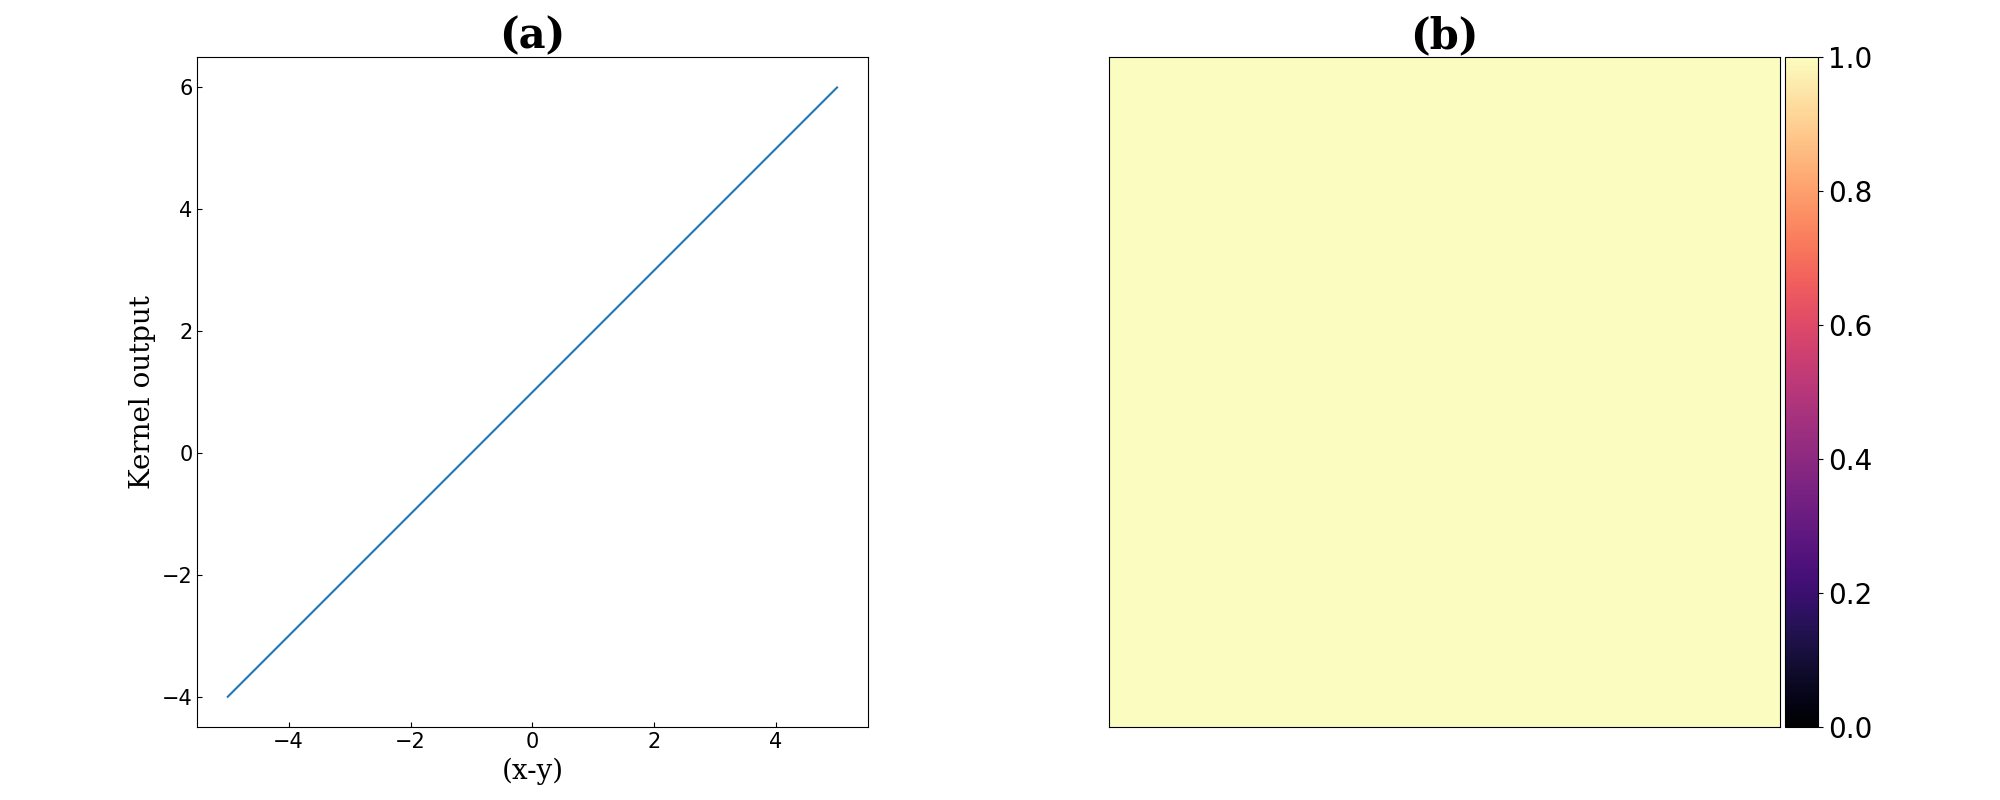
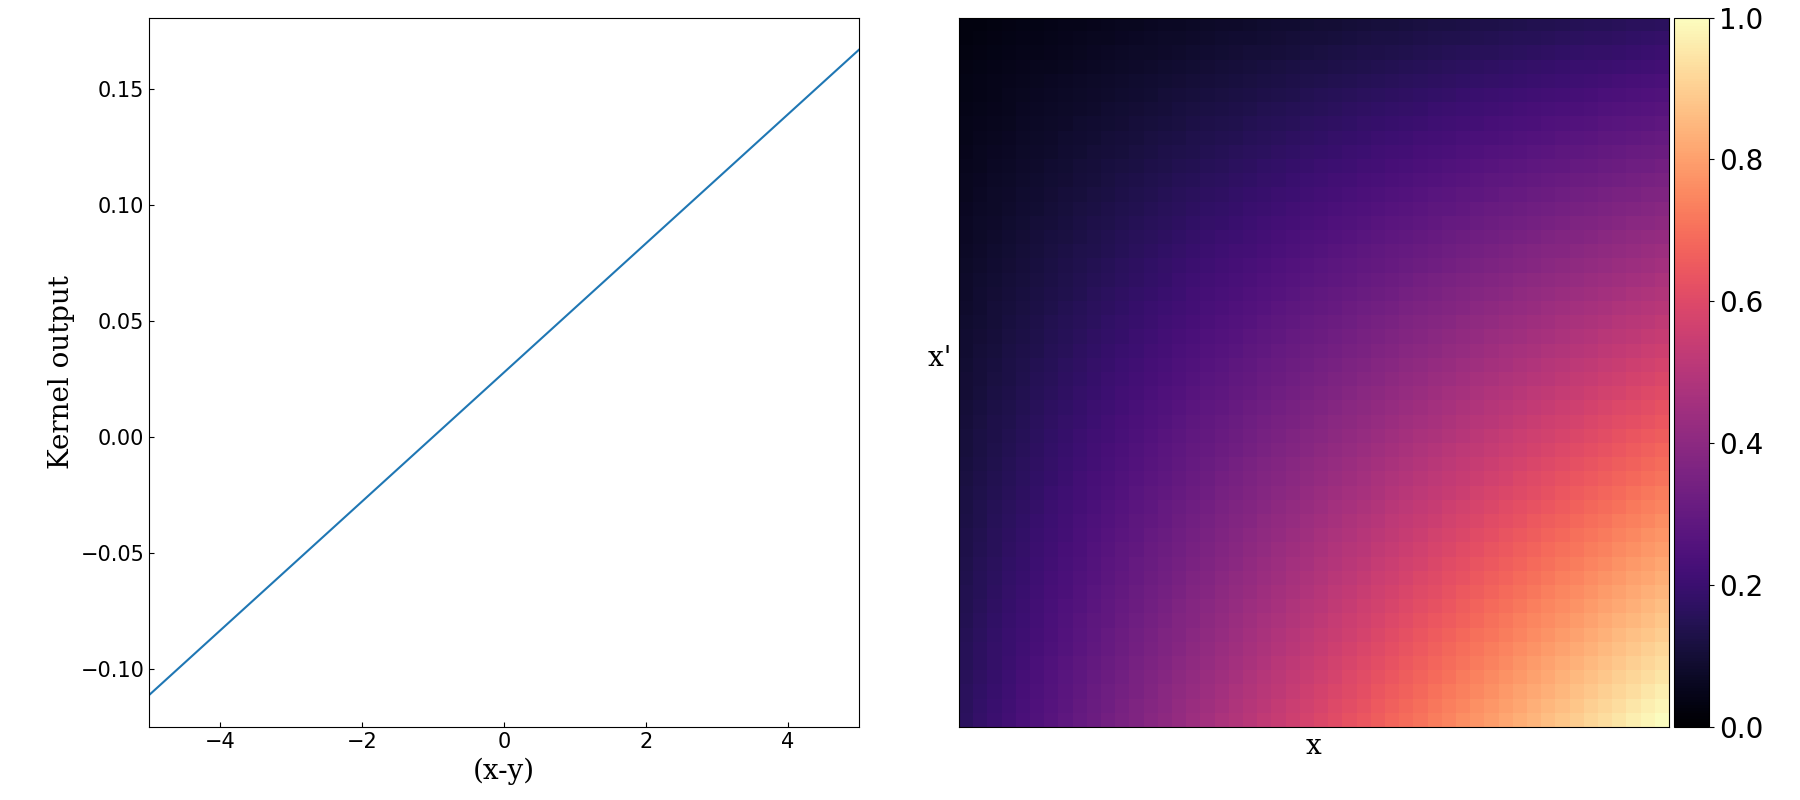
more consistent figures

diff --git a/src/visualisation.py b/src/visualisation.py
@@ -10,9 +10,10 @@ alphabet = "abcdefghi"
 def visualiseKernel(kernel:KernelFunction):
     """This function visualises the kernel."""
     matrixOfValues = kernel(np.linspace(0,5, 50))
-    values = kernel(np.array([0]), np.linspace(-5,5,1000))
+    x = np.linspace(-5,5,1000)
+    values = kernel(np.array([0]), x)
 
-    fig, axes = plt.subplots(1,2, width_ratios=[1,1], height_ratios=[1], figsize = (20,8))
+    fig, axes = plt.subplots(1,2, width_ratios=[1,1], height_ratios=[1], figsize = (18,8))
 
     # first axis is graph of values
     axes[0].plot(np.linspace(-5,5,1000), values)
@@ -24,12 +25,15 @@ def visualiseKernel(kernel:KernelFunction):
     im = axes[1].imshow(matrixOfValues, cmap = "magma", vmin = 0, vmax = 1)
     axes[1].set_xticks([])
     axes[1].set_yticks([])
+    axes[1].set_xlabel("x", fontsize = 20, fontfamily = "serif")
+    axes[1].set_ylabel("x'   ", fontsize = 20, fontfamily = "serif", rotation=0)
     divider = make_axes_locatable(axes[1])
     cax = divider.append_axes('right', size='5%', pad=0.05)
     cbar = fig.colorbar(im, cax=cax, orientation='vertical')
     cbar.ax.tick_params(labelsize=20) 
     for index, axis in enumerate(axes):
         fixTickParams(axis, index)
+    axes[0].set_xlim(np.min(x),np.max(x))
 
     fig.tight_layout()
     fig.savefig(f"figures/{kernel.kernType.replace(" ", "")}.png")
@@ -44,12 +48,12 @@ def showAll():
     comp = CompositeKernel(p, RadialBasisFunction(lengthscale=5), "x")
     comp.kernType = "Locally Periodic"
     kernels = [rbf, rq, p, comp]
-
-    fig, axes = plt.subplots(2, len(kernels), figsize = (20,8))
+    x = np.linspace(-5,5,100)
+    fig, axes = plt.subplots(2, len(kernels), figsize = (18,8))
     for i, kernel in enumerate(kernels):
         matrixOfValues = kernel(np.linspace(0,5, 50))
-        values = kernel(np.array([0]), np.linspace(-5,5,100))
-        axes[0][i].plot(np.linspace(-5,5,100), values)
+        values = kernel(np.array([0]), x)
+        axes[0][i].plot(x, values)
         axes[0][i].set_box_aspect(1)
         # axes[0][i].set_xlabel("(x - y)", fontsize = 12, fontfamily = "serif")
 
@@ -65,6 +69,8 @@ def showAll():
 
     for i in range(1,len(kernels)):
         axes[0][i].set_yticks([])
+        axes[0][i].set_xlim(np.min(x),np.max(x))
+
     axes[0][0].set_ylabel("Kernel output", fontsize = 12, fontfamily = "serif")
 
     for index, axis in enumerate(axes.flatten()):
@@ -76,18 +82,18 @@ def showAll():
 def testHypes():
     
     kernels = [RadialBasisFunction(1,1), RadialBasisFunction(1,2), RadialBasisFunction(0.75,1), RadialBasisFunction(0.75,2)]
-
-    fig, axes = plt.subplots(2, len(kernels), figsize = (20,8))
+    x = np.linspace(-5,5,100)
+    fig, axes = plt.subplots(2, len(kernels), figsize = (18,8))
     for i, kernel in enumerate(kernels):
         matrixOfValues = kernel(np.linspace(0,5, 50))
-        values = kernel(np.array([0]), np.linspace(-5,5,100))
-        axes[0][i].plot(np.linspace(-5,5,100), values)
+        values = kernel(np.array([0]), x)
+        axes[0][i].plot(x, values)
         axes[0][i].set_box_aspect(1)
         axes[0][i].set_xlabel("(x - y)", fontsize = 12, fontfamily = "serif")
         axes[0][i].set_ylim([0,1.1])
         
         # second axis is visual pattern
-        im = axes[1][i].imshow(matrixOfValues, vmin = 0, vmax = 1)
+        im = axes[1][i].imshow(matrixOfValues, vmin = 0, vmax = 1, cmap = "magma")
         axes[1][i].set_xticks([])
         axes[1][i].set_yticks([])
         divider = make_axes_locatable(axes[1][i])
@@ -97,13 +103,15 @@ def testHypes():
 
     for i in range(1,len(kernels)):
         axes[0][i].set_yticks([])
+        axes[0][i].set_xlim(np.min(x),np.max(x))
+
     axes[0][0].set_ylabel("Kernel output", fontsize = 12, fontfamily = "serif")
     for index, axis in enumerate(axes.flatten()):
         fixTickParams(axis, index)
     fig.savefig("figures/hyperparams.png")   
 
 def showGPLengthscales():
-    fig, axes = plt.subplots(1,3, figsize = (20,8))
+    fig, axes = plt.subplots(1,3, figsize = (18,8))
     x = np.linspace(0,20,250)
     y = generateSinData(x, 5, 0.1)
     gps = [GaussianProcess(RadialBasisFunction(lengthscale=0.1)), GaussianProcess(RadialBasisFunction(lengthscale=1)), GaussianProcess(RadialBasisFunction(lengthscale=10))]
@@ -117,24 +125,25 @@ def showGPLengthscales():
         axes[i].set_yticks([])
     for index, axis in enumerate(axes):
         fixTickParams(axis, index)
+        axis.set_xlim(np.min(x),np.max(x))
     fig.tight_layout()
     fig.savefig("figures/lengthscales.png")
 
 
-def priorDistSample(gp: GaussianProcess, nsamples: int = 3):
+def priorDistSample(gp: GaussianProcess, nsamples: int = 3, fname="figures/priorVsPosterior.png"):
     """This function plots and samples functions from the means and covariance.
     Args:
         gp: the gaussian process having observed data.
     """
 
-    fig, axes = plt.subplots(ncols=2, figsize = (20,10), sharey=True)
-    
+    fig, axes = plt.subplots(ncols=2, figsize = (18,6.3), sharey=True)
+    gp.observeData(np.array([2,3, 7, 5]), np.array([0.5,0.5,2,1]))
+
     # calculate the mean and covariance for prior.
-    sigma = gp.noise_variance
     
     kernel = gp.kernelFunction
-    x = np.linspace(0,100,100)
-    means = np.zeros(100)
+    x = np.linspace(0,10,200)
+    means = np.zeros(200)
     kernelMatrix = kernel(x)
     axes[0].plot(x,means)
     axes[0].fill_between(x, means-kernelMatrix.diagonal(), means+kernelMatrix.diagonal(), alpha = 0.1)
@@ -142,46 +151,103 @@ def priorDistSample(gp: GaussianProcess, nsamples: int = 3):
     axes[1].plot(x,postMeans, label="Mean function")
     axes[1].fill_between(x, postMeans-PostVariance.diagonal(), postMeans+PostVariance.diagonal(), alpha = 0.1, label="Variance range")
     axes[1].scatter(gp.x, gp.y, marker = "x", c="black", s=40, label="Observed data")
-    f = np.random.multivariate_normal(means, kernelMatrix)
-    axes[0].plot(x, f, linestyle = "dashed", color = "black", linewidth = 1, label="Sample")
-    f = np.random.multivariate_normal(postMeans, PostVariance)
-    axes[1].plot(x, f, linestyle = "dashed", color = "black", linewidth = 1)
-
-    for i in range(nsamples-1):
+    for i in range(nsamples):
         f = np.random.multivariate_normal(means, kernelMatrix)
-        axes[0].plot(x, f, linestyle = "dashed", color = "black", linewidth = 1)
+        axes[0].plot(x, f, linestyle = "dashed", linewidth = 1)
         f = np.random.multivariate_normal(postMeans, PostVariance)
-        axes[1].plot(x, f, linestyle = "dashed", color = "black", linewidth = 1)
+        axes[1].plot(x, f, linestyle = "dashed", linewidth = 1)
 
     # fig.legend(loc="center right")
     for index, axis in enumerate(axes):
         fixTickParams(axis, index)
-    fig.savefig("figures/priorVsPosterior.png")
+        axis.set_yticks([-2,0,2])
+        axis.set_ylim(-3.5,3.5)
+        axis.set_xlim(np.min(x),np.max(x))
+        axis.set_xticks([])
 
+    fig.tight_layout()
+
+    fig.savefig(fname)
+
+
+def GPComps(gps: list[GaussianProcess], fname:str, nsamples = 3):
+    """Generates prior and posterior distribution according to multiple GPs."""
+    observedX = [2,3,7, 5]
+    observedY = [0.5,0.5,2,1]
+    fig1, axes1 = plt.subplots(ncols=len(gps), figsize = (18,18/(len(gps)+1)), sharey=True)
+    fig2, axes2 = plt.subplots(ncols=len(gps), figsize = (18,18/(len(gps)+1)), sharey=True)
+    for index, gp in enumerate(gps):
+        gp.observeData(observedX, observedY)
+        kernel = gp.kernelFunction
+        x = np.linspace(0,10,1000)
+        means = np.zeros(1000)
+        kernelMatrix = kernel(x)
+        postMeans,PostVariance = gp.inference(x)
+        axes1[index].plot(x,means)
+        axes1[index].fill_between(x, means-kernelMatrix.diagonal(), means+kernelMatrix.diagonal(), alpha = 0.1)
+        axes2[index].plot(x,postMeans, label="Mean function")
+        axes2[index].fill_between(x, postMeans-PostVariance.diagonal(), postMeans+PostVariance.diagonal(), alpha = 0.1, label="Variance range")
+        axes2[index].scatter(gp.x, gp.y, marker = "x", c="black", s=40, label="Observed data")
+        for i in range(nsamples):
+            f = np.random.multivariate_normal(means, kernelMatrix)
+            axes1[index].plot(x, f, linestyle = "dashed", linewidth = 1)
+            f = np.random.multivariate_normal(postMeans, PostVariance)
+            axes2[index].plot(x, f, linestyle = "dashed", linewidth = 1)
+    
+    for axis in axes1:
+        axis.tick_params(direction = "in", labelsize=15)
+        axis.set_ylim(-3.5,3.5)
+        axis.set_yticks([-2,0,2])
+        axis.set_xticks([])
+        axis.set_xlim(np.min(x),np.max(x))
+
+
+    for axis in axes2:
+        axis.tick_params(direction = "in", labelsize=15)
+        axis.set_ylim(-3.5,3.5)
+        axis.set_yticks([-2,0,2])
+        axis.set_xticks([])
+        axis.set_xlim(np.min(x),np.max(x))
+    fig1.tight_layout()
+    fig2.tight_layout()
+
+    fig1.savefig(f"figures/{fname}Priors.png")
+    fig2.savefig(f"figures/{fname}Posteriors.png")
 
     
 def fixTickParams(axis, index):
     """This function fixes axis for consistency."""
     axis.tick_params(direction = "in", labelsize=15)
-    axis.set_title(f"({alphabet[index]})", size = 30, fontfamily = "serif", fontweight = "bold")
+    # axis.set_title(f"({alphabet[index]})", size = 30, fontfamily = "serif", fontweight = "bold")
 
     
 
 
 if __name__ == "__main__":
-    rbf = RadialBasisFunction(lengthscale=1)
-    rq = RationalQuadraticFunction(alpha=1)
-    p = PeriodicFunction()
-    lin = LinearFunction()
-    comp = CompositeKernel(p, RadialBasisFunction(lengthscale=4), "x")
-    visualiseKernel(rbf)
-    visualiseKernel(rq)
-    visualiseKernel(p)
-    visualiseKernel(lin)
-    visualiseKernel(comp)
-    showAll()
-    testHypes()
-    showGPLengthscales()
-    gp = GaussianProcess(RadialBasisFunction(lengthscale=5, sigma=1), noise_variance=0.01)
-    gp.observeData(np.array([20,30,70, 50]), np.array([0.5,0.5,2,1]))
-    priorDistSample(gp)
+    # rbf = RadialBasisFunction(lengthscale=1)
+    # rq = RationalQuadraticFunction(alpha=1)
+    # p = PeriodicFunction()
+    # lin = LinearFunction(sigmaV=1/36)
+    # comp = CompositeKernel(p, RadialBasisFunction(lengthscale=4), "x")
+    # visualiseKernel(rbf)
+    # visualiseKernel(rq)
+    # visualiseKernel(p)
+    # visualiseKernel(lin)
+    # visualiseKernel(comp)
+    # showAll()
+    # testHypes()
+    # showGPLengthscales()
+    # gp = GaussianProcess(RadialBasisFunction(lengthscale=1, sigma=1), noise_variance=0.01)
+    # priorDistSample(gp, nsamples=5)
+    # gps = [
+    #     GaussianProcess(RadialBasisFunction(), noise_variance=0.01), GaussianProcess(RadialBasisFunction(), noise_variance=0.1), GaussianProcess(RadialBasisFunction(), noise_variance=1)
+    # ]
+    # GPComps(gps, "noiseVariance", nsamples=4)
+    # gps = [
+    #     GaussianProcess(RadialBasisFunction(sigma=0.5)), GaussianProcess(RadialBasisFunction(sigma=1)), GaussianProcess(RadialBasisFunction(sigma=1.4))
+    # ]
+    # GPComps(gps, "sigmas", nsamples=4)
+    gps = [
+        GaussianProcess(RadialBasisFunction(lengthscale=0.1)), GaussianProcess(RadialBasisFunction(lengthscale=0.5)), GaussianProcess(RadialBasisFunction(lengthscale=2))
+    ]
+    GPComps(gps, "lengthscales", nsamples=3)

diff --git a/src/GaussianProcess.py b/src/GaussianProcess.py
@@ -7,7 +7,7 @@ import matplotlib.pyplot as plt
 
 
 class GaussianProcess():
-    def __init__(self, kernelFunction: KernelFunction, noise_variance = 1):
+    def __init__(self, kernelFunction: KernelFunction, noise_variance = 0.01):
         self.kernelFunction = kernelFunction
         self.x = None
         self.y = None
